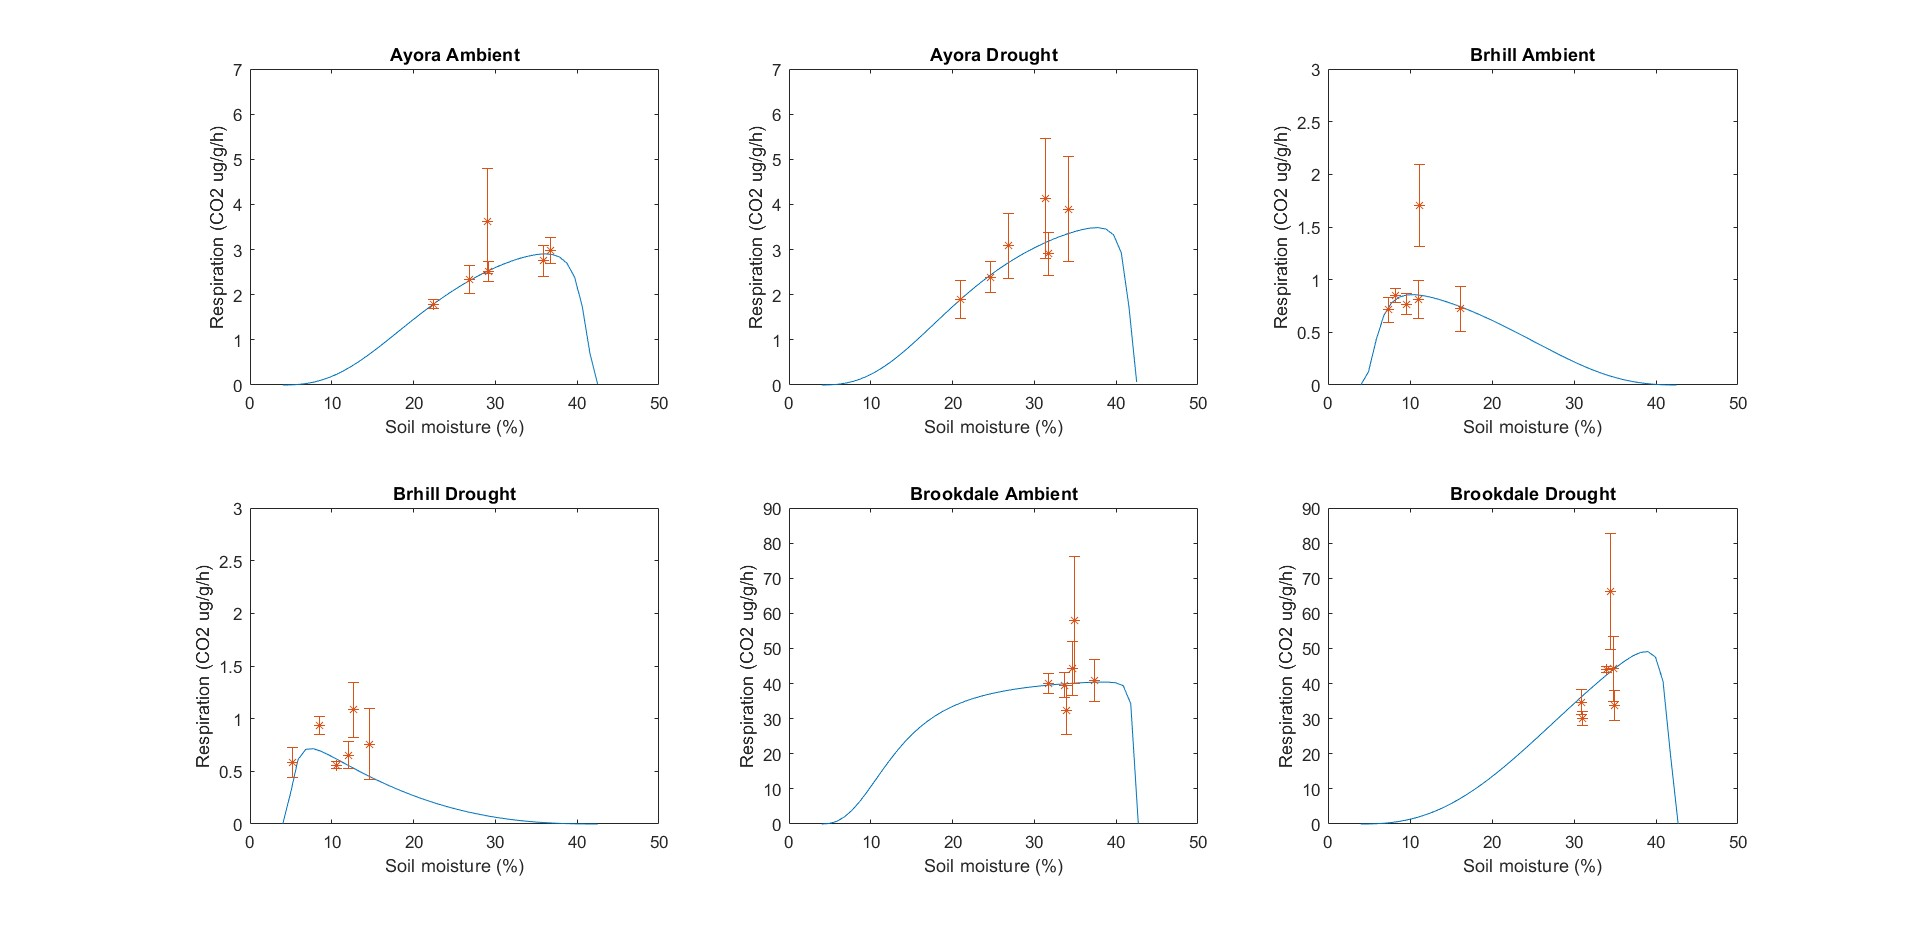
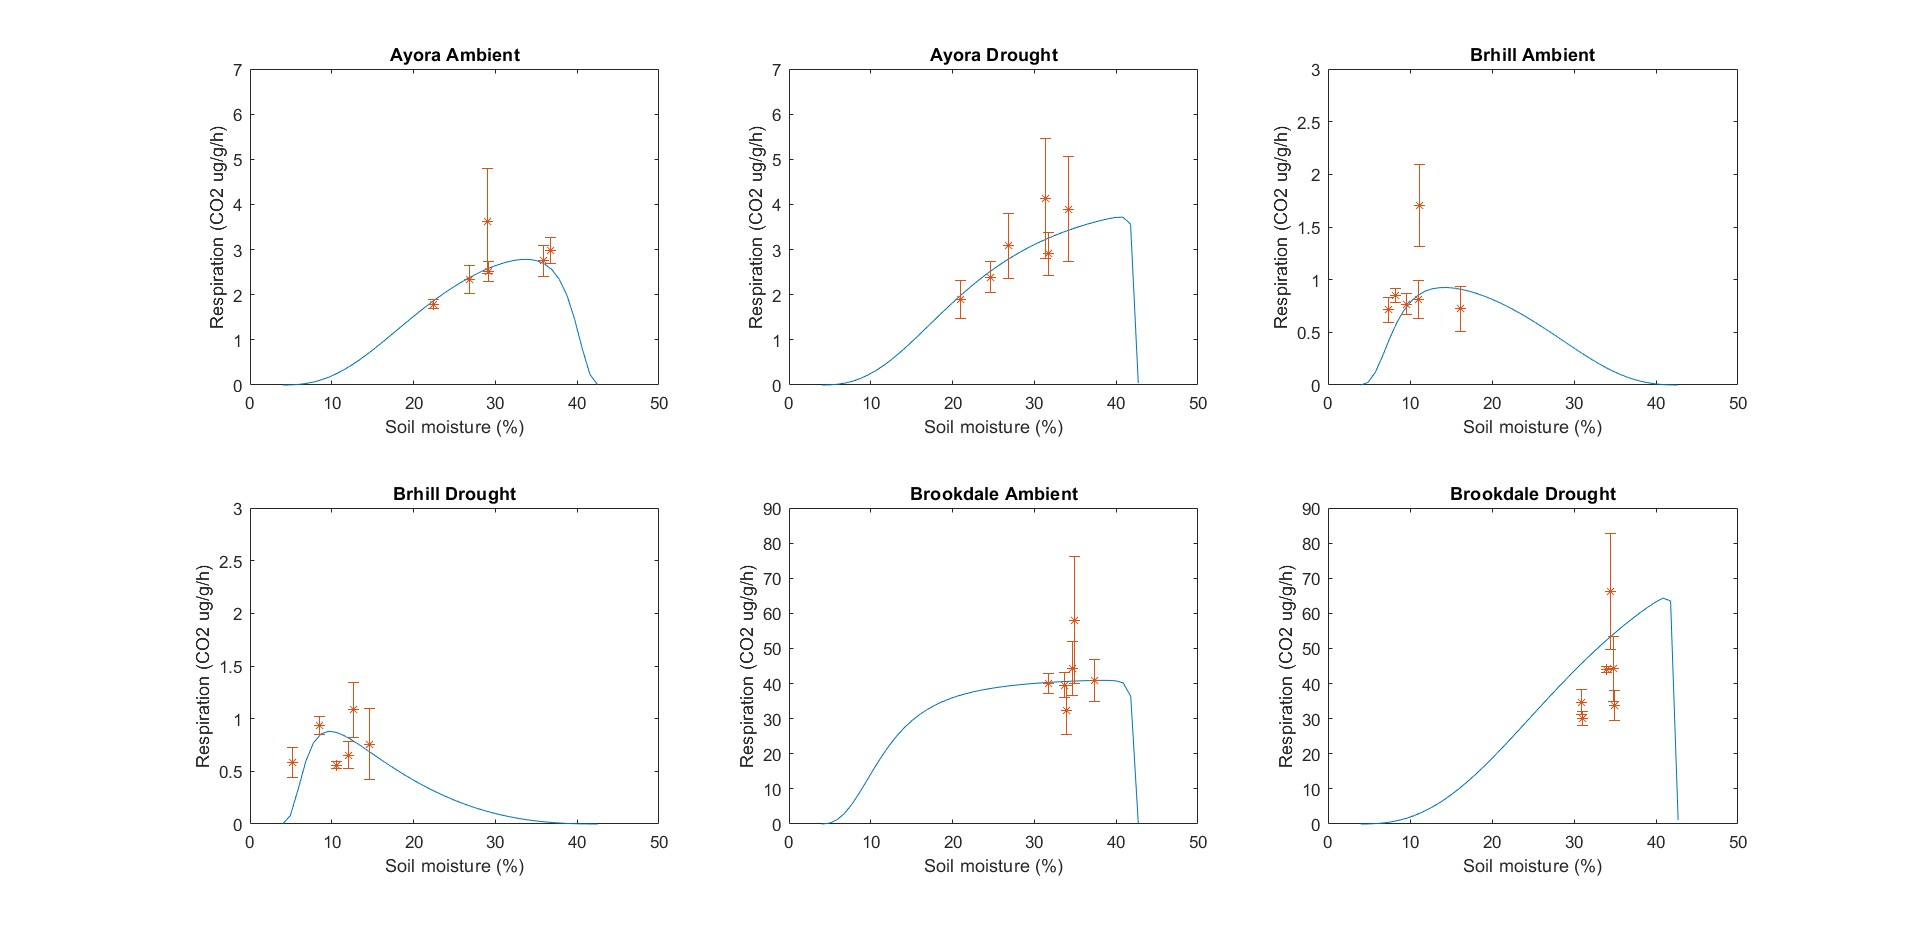
I have updated the information from the soils that was not used before. The new fixed parameters should represent the values of the sampled soils.

diff --git a/calibration_DAMM.m b/calibration_DAMM.m
@@ -9,7 +9,7 @@ Data        = load("DIGME_mean.2.txt");
 % x_1         = Data(13:18,2);  % brhill Ambient
 % x_1         = Data(19:24,2);  % brhill Drought
 % x_1         = Data(25:30,2);  % brookdale Ambient
-% x_1         = Data(31:36,2);  % brookdale Drought
+x_1         = Data(31:36,2);  % brookdale Drought
 
 % Model Parameters
 % p(1); % V_max - Maximum velocity of the enzymatic reaction*
@@ -19,14 +19,22 @@ Data        = load("DIGME_mean.2.txt");
 % p(5); % K_O (drought) Michaelis constant (O)
 
 % Model  fixed parameters and model results
-q(1)        = mean(Data(1:12,4));      % Bulk density [kg/m3]
-q(2)        = 30.99430/100;                 % Clay content [%]
+% q(1)        = mean(Data(1:12,4));           % Bulk density [kg/m3] Ayora
+% q(1)        = mean(Data(13:24,4));          % Bulk density [kg/m3] brhill
+% q(1)        = mean(Data(25:36,4));          % Bulk density [kg/m3] brookdale
+% q(2)        = 30.99430/100;                 % Clay content [%] Ayora
+% q(2)        = 10.26311/100;                 % Clay content [%] brhill
+% q(2)        = 39.77977/100;                 % Clay content [%] brookdale
 q(3)        = 1.5;                          % Cementation exponent
 q(4)        = 2.5;                          % Saturation exponent
 q(5)        = 0.2;                          % Empirical coefficient of water percolation threshold[-]
 q(6)        = 0.1;                          % Empirical coefficient of air percolation threshold[-]
-q(7)        = mean(Data(1:12,12))/1.72/100; % Concentration of SOC [%]
-q(8)        = 1.9;                     % Particle density [kg/m3]
+% q(7)        = mean(Data(1:12,12))/1.72/100;  % Concentration of SOC [%] Ayora
+% q(7)        = mean(Data(13:24,12))/1.72/100; % Concentration of SOC [%] brhill
+% q(7)        = mean(Data(25:36,12))/1.72/100; % Concentration of SOC [%] brookdale
+% q(8)        = 2.0375;                       % Particle density [kg/m3] Ayora
+% q(8)        = 2.729225;                     % Particle density [kg/m3] brhill
+% q(8)        = 1.939333;                     % Particle density [kg/m3] brookdale
 
 SR_sim      = DAMM_model(x_1,p,q); 
 % Ayora Ambient
@@ -45,8 +53,8 @@ SR_sim      = DAMM_model(x_1,p,q);
 % SR_obs      = Data(25:30,8);
 % SR_sd       = Data(25:30,9);
 % brookdale Drought
-% SR_obs      = Data(31:36,8);
-% SR_sd       = Data(31:36,9);
+SR_obs      = Data(31:36,8);
+SR_sd       = Data(31:36,9);
 
 SSE_1       = (sum(((SR_obs-SR_sim)./SR_sd).^2))./length(SR_sim);
 SSE         = SSE_1^0.5

diff --git a/fmincom_file.m b/fmincom_file.m
@@ -7,8 +7,8 @@ b = [];
 Aeq = [];
 beq = [];
 
-ub = [1e2 5e1 5e2];
-lb = [1e-2 5e-5 5e-6];
+ub = [1e2 1e1 1e2];
+lb = [1e-2 1e-5 1e-6];
 
 p0 = p;
 
@@ -25,3 +25,26 @@ save('brhill_ambient.mat','p')
 save('brhill_drought.mat','p')
 save('brookdale_ambient.mat','p')
 save('brookdale_drought.mat','p')
+
+%%
+p = [0.5 0.5 0.01 1];
+%%
+ObjectiveFunction = @calibration_NICHE;
+
+A = [];
+b = [];
+Aeq = [];
+beq = [];
+
+ub = [1e2 0.5 1e1 10];
+lb = [1e-2 1e-2 1e-3 0.5];
+
+p0 = p;
+
+nonlcon = [];
+options = optimoptions(@fmincon,'MaxFunEvals',100000);
+
+[p,fval,exitFlag,output] = fmincon(ObjectiveFunction,p0,A,b,Aeq,beq,lb,ub,nonlcon,options);
+
+%%
+save('Ayora_ambient_NICHE.mat','p')

diff --git a/plotting_figures.m b/plotting_figures.m
@@ -12,14 +12,14 @@ SR_1o  = Data(1:6,8);
 SR_1sd = Data(1:6,9)/sqrt(length(x_1));
 
 load('Ayora_drought.mat');
-x2     = linspace(0.04,0.425,42);
+x2     = linspace(0.04,0.427,42.5);
 SR_a_d = plotting_DAMM(x2,p);
 x_2    = Data(7:12,2)*100;
 SR_2o  = Data(7:12,8);
 SR_2sd = Data(7:12,9)/sqrt(length(x_2));
 
 load('brhill_ambient.mat');
-x3     = linspace(0.04,0.425,42);
+x3     = linspace(0.04,0.426,45);
 SR_b_a = plotting_DAMM(x3,p);
 x_3    = Data(13:18,2)*100;
 SR_3o  = Data(13:18,8);
